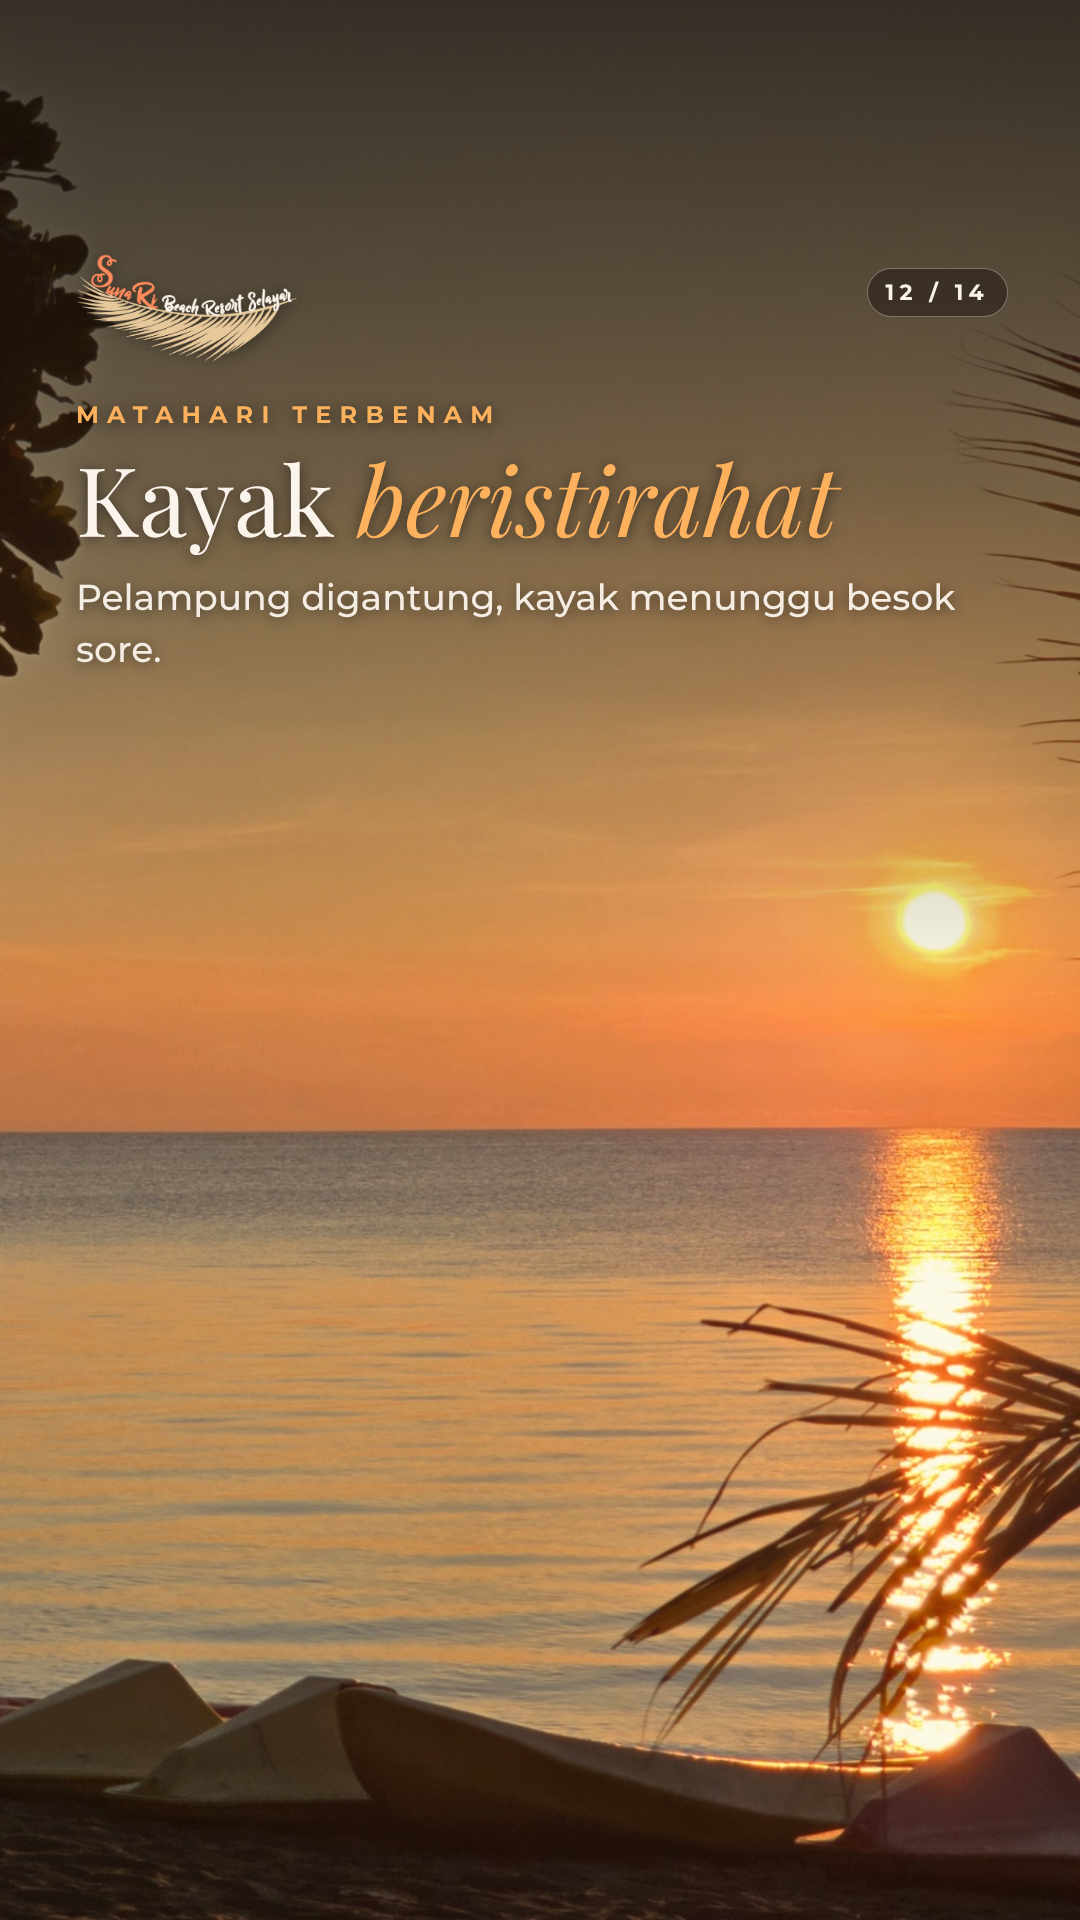
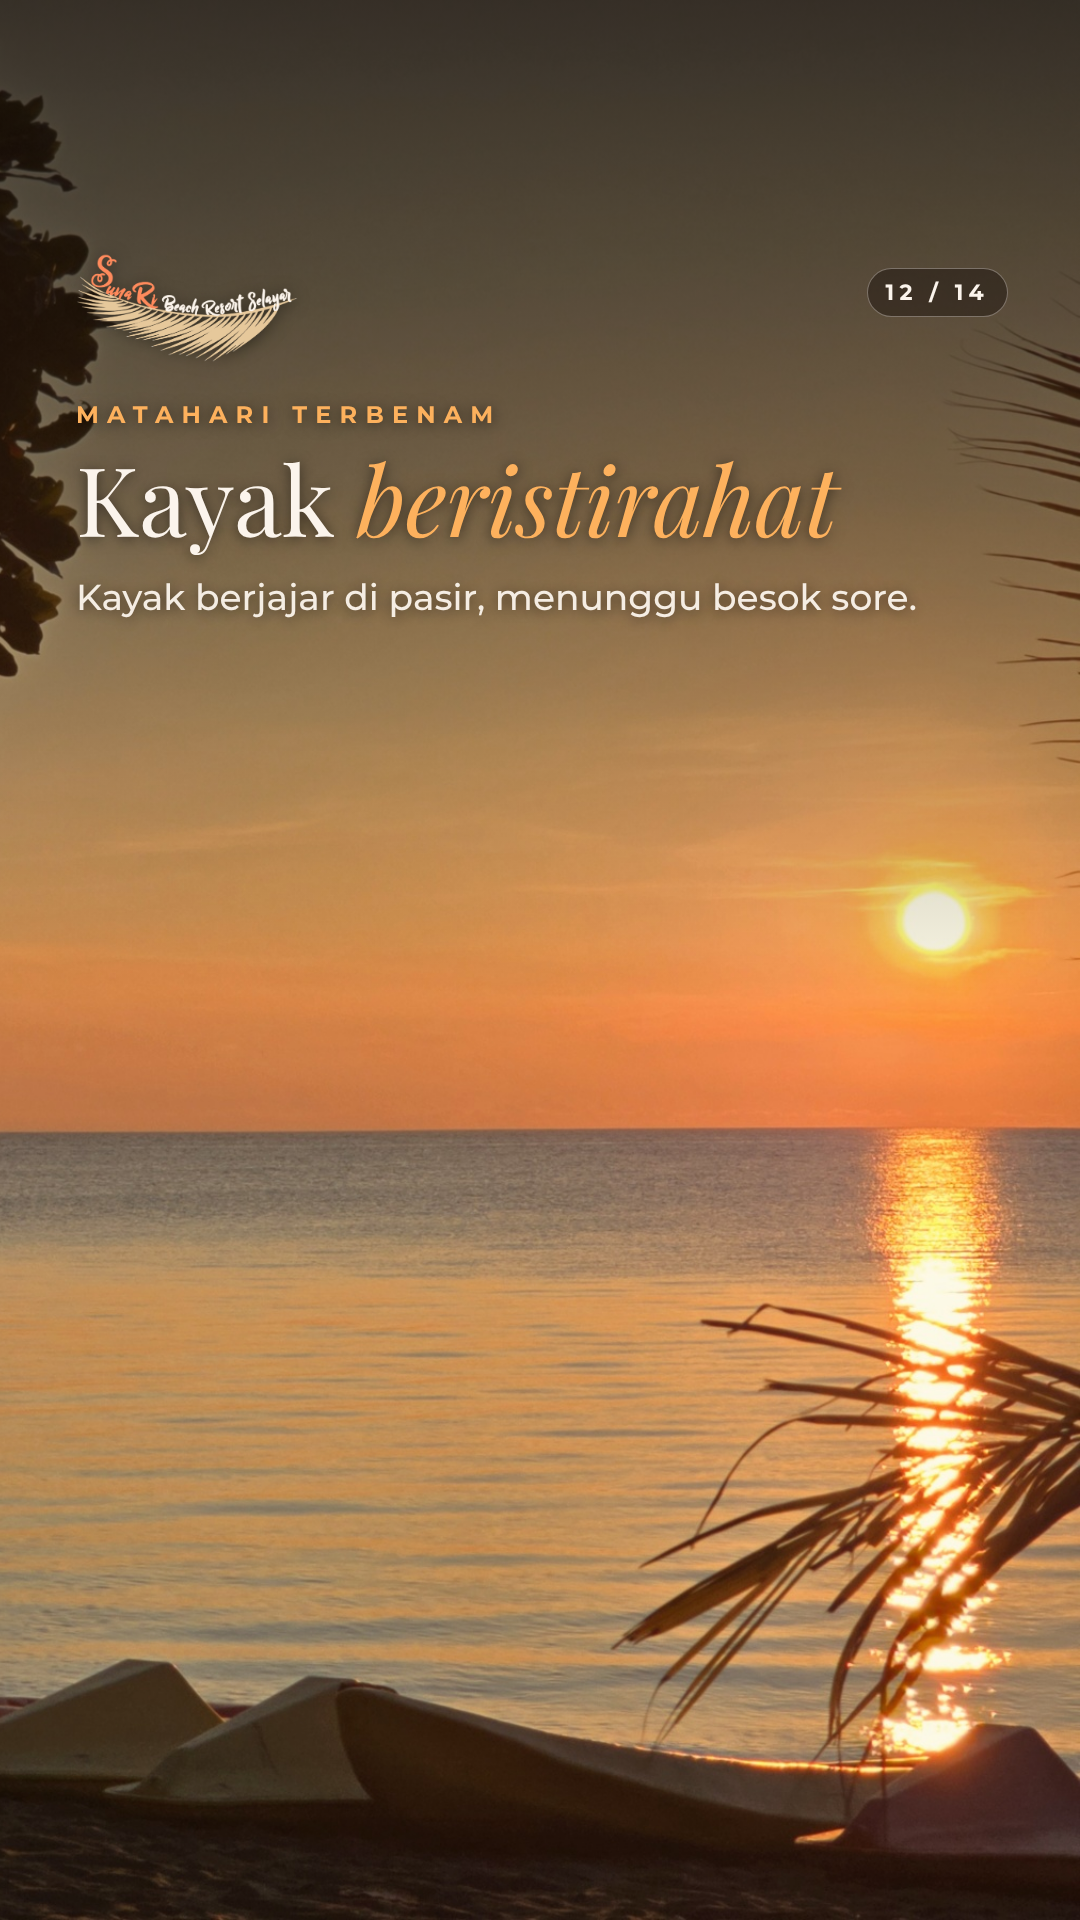
Story 12: caption matches crop
Claude-Session: https://claude.ai/code/session_01AizaiBQtsTmWERPRfEgVV4

diff --git a/social/senja_cerita_story.html b/social/senja_cerita_story.html
@@ -39,7 +39,7 @@
   <div class="vt" style="height:1000px;background:linear-gradient(180deg,rgba(20,12,6,.75),rgba(20,12,6,.45) 50%,rgba(20,12,6,0))"></div><img class="lg" src="../assets/logo-sunari-color-dark.png" alt=""><div class="no">11 / 14</div>
   <div class="tx" style="top:400px;bottom:auto"><div class="kick">Matahari terbenam</div><div class="ttl">Nelayan <em>pulang</em></div><div class="sub">Perahu melintas pelan di jalur cahaya.</div></div></div><div class="s" id="story-12"><img class="bg" src="../assets/photos/graded/senja__73-kayak-pelampung-perahu.jpg" style="object-position:100% 50%" alt="">
   <div class="vt" style="height:1000px;background:linear-gradient(180deg,rgba(20,12,6,.75),rgba(20,12,6,.45) 50%,rgba(20,12,6,0))"></div><img class="lg" src="../assets/logo-sunari-color-dark.png" alt=""><div class="no">12 / 14</div>
-  <div class="tx" style="top:400px;bottom:auto"><div class="kick">Matahari terbenam</div><div class="ttl">Kayak <em>beristirahat</em></div><div class="sub">Pelampung digantung, kayak menunggu besok sore.</div></div></div><div class="s" id="story-13"><img class="bg" src="../assets/photos/graded/senja__75-afterglow-dua-sahabat.jpg" style="object-position:55% 50%" alt="">
+  <div class="tx" style="top:400px;bottom:auto"><div class="kick">Matahari terbenam</div><div class="ttl">Kayak <em>beristirahat</em></div><div class="sub">Kayak berjajar di pasir, menunggu besok sore.</div></div></div><div class="s" id="story-13"><img class="bg" src="../assets/photos/graded/senja__75-afterglow-dua-sahabat.jpg" style="object-position:55% 50%" alt="">
   <div class="vt"></div><div class="vb"></div><img class="lg" src="../assets/logo-sunari-color-dark.png" alt=""><div class="no">13 / 14</div>
   <div class="tx"><div class="kick">Afterglow</div><div class="ttl">Langit belum <em>selesai</em></div><div class="sub">Matahari sudah tenggelam, jingga dan merah muda masih bertahan.</div></div></div><div class="s" id="story-14" style="background:#FBF4EC"><div style="position:absolute;left:40px;right:40px;top:200px;bottom:200px;border:1.5px solid rgba(138,95,72,.4)"></div>
   <img src="../assets/logo-sunari-color.png" style="position:absolute;left:50%;transform:translateX(-50%);top:300px;width:400px" alt="">

diff --git a/social/build_senja_cerita_story.py b/social/build_senja_cerita_story.py
@@ -5,6 +5,7 @@ H = pathlib.Path(__file__).parent
 src = (H / "build_senja_cerita.py").read_text()
 ns = {}; exec(src[src.index("LOGO ="):src.index("N = len(SL)")], ns)   # ambil LOGO, P, WA, FONTS, SL dari versi feed
 LOGO, LOGO_D, P, WA, FONTS, SL = ns["LOGO"], ns["LOGO_D"], ns["P"], ns["WA"], ns["FONTS"], ns["SL"]
+SL = [(i, p, k, t, "Kayak berjajar di pasir, menunggu besok sore." if i.startswith("73") else s) for i, p, k, t, s in SL]
 # posisi crop horizontal khusus 9:16 (foto aslinya persegi)
 XPOS = {"79": "60%", "80": "28%", "81": "55%", "82": "58%", "71": "30%", "83": "74%", "76": "50%", "77": "42%",
         "72": "48%", "70": "48%", "73": "100%", "75": "55%"}
